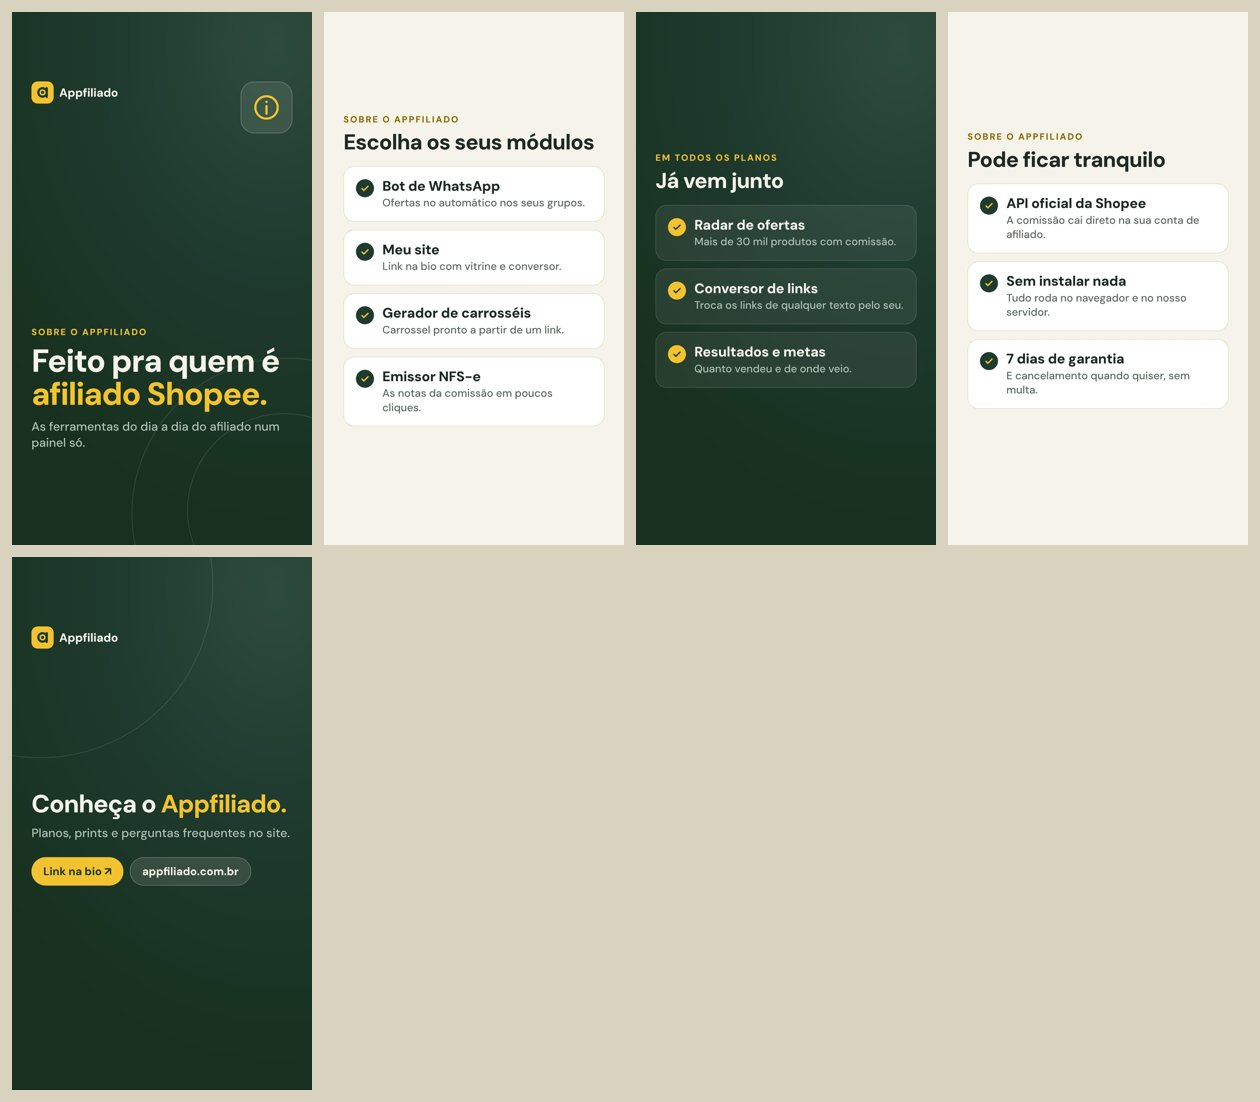
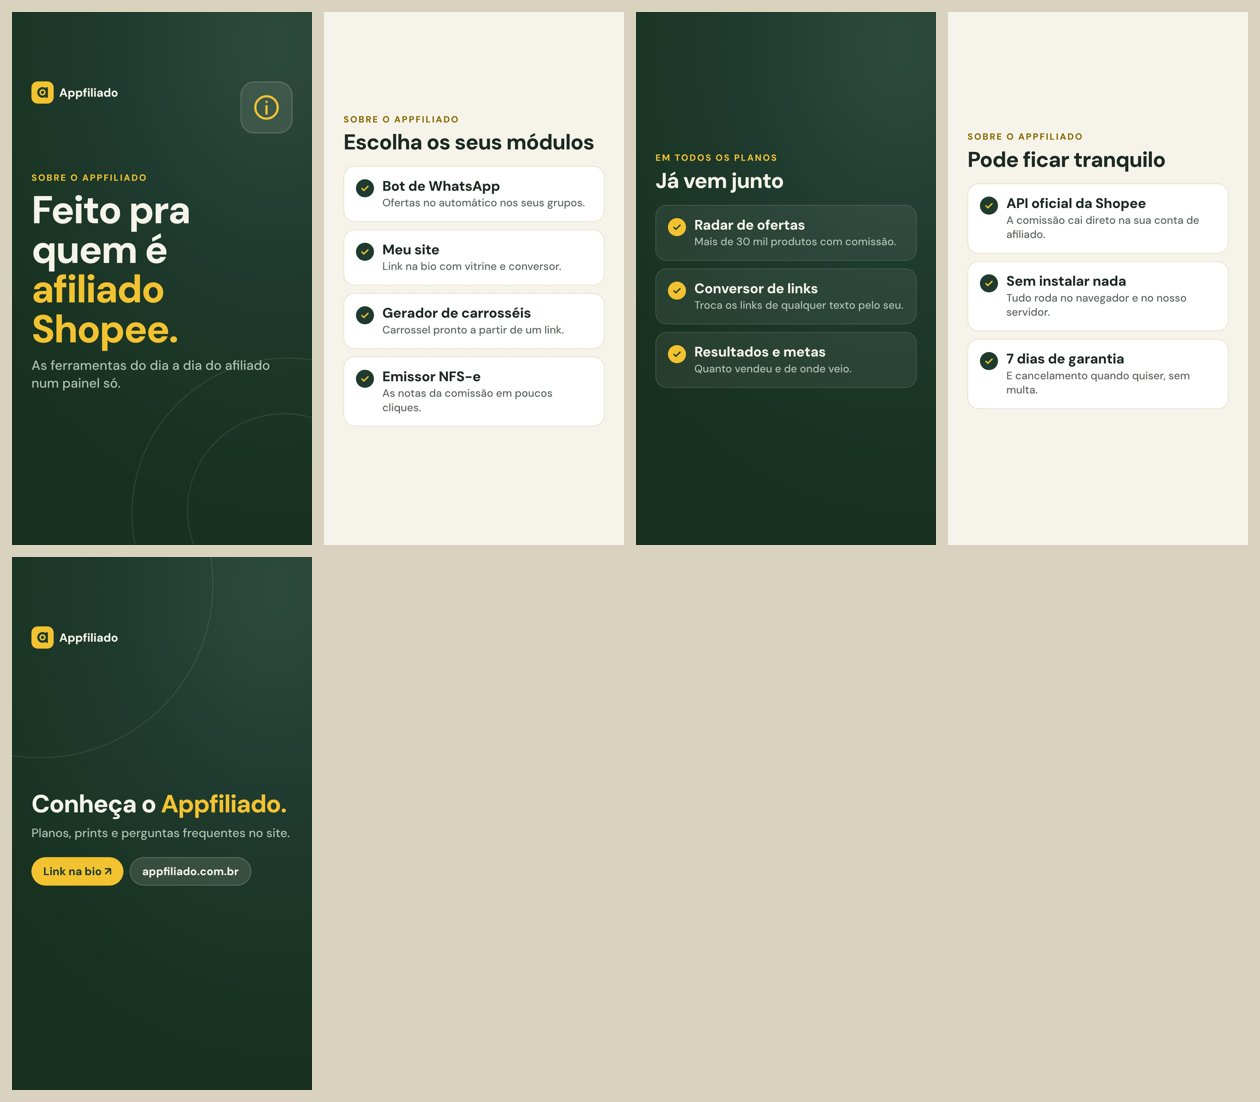
Instagram: proposta de capa de destaque centralizada e com título maior (Sobre)
Claude-Session: https://claude.ai/code/session_01FQ1xHHHeBcnmfm87PhUMDS

Changed region(s): [[0.0, 0.1543, 0.2167, 0.4011]]

diff --git a/marketing/appfiliado/instagram/gerar_instagram.py b/marketing/appfiliado/instagram/gerar_instagram.py
@@ -131,6 +131,9 @@ h2 {{ font-weight: 800; letter-spacing: -.025em; line-height: 1.07; font-size: 5
    ampliado 1,25x: 200 px aqui = 250 px na imagem) */
 .story .slide {{ justify-content: center; padding: 200px 56px; }}
 .story .slide.capa {{ --px: 56px; }}
+.story .capa-texto {{ margin: auto 0 !important; padding-bottom: 60px; }}
+.story .slide.capa h1 {{ font-size: 112px; line-height: 1.02; }}
+.story .slide.capa .texto {{ font-size: 38px; }}
 .story h1 {{ font-size: 92px; }}
 .story h1.menor {{ font-size: 72px; }}
 .story h2 {{ font-size: 62px; }}
@@ -184,7 +187,7 @@ def capa(chapeu, titulo, texto="", icone=None, verde=True):
         topo = f'<div style="display:flex;justify-content:space-between;align-items:flex-start">{_marca()}{_icone(icone) if icone else ""}</div>'
         enfeite = ('<div class="circulo-fundo" style="width:900px;height:900px;right:-380px;bottom:-360px"></div>'
                    '<div class="circulo-fundo" style="width:560px;height:560px;right:-200px;bottom:-180px"></div>') if verde else ""
-        return (f'<section class="slide capa{" verde" if verde else ""}">{enfeite}{topo}<div style="margin-top:auto;position:relative">'
+        return (f'<section class="slide capa{" verde" if verde else ""}">{enfeite}{topo}<div class="capa-texto" style="margin-top:auto;position:relative">'
                 f'<p class="chapeu">{E(chapeu)}</p><h1>{titulo}</h1>{f"<p class=texto>{texto}</p>" if texto else ""}</div>'
                 f'<div style="height:70px"></div>{_rodape(i, total)}</section>')
     return montar
